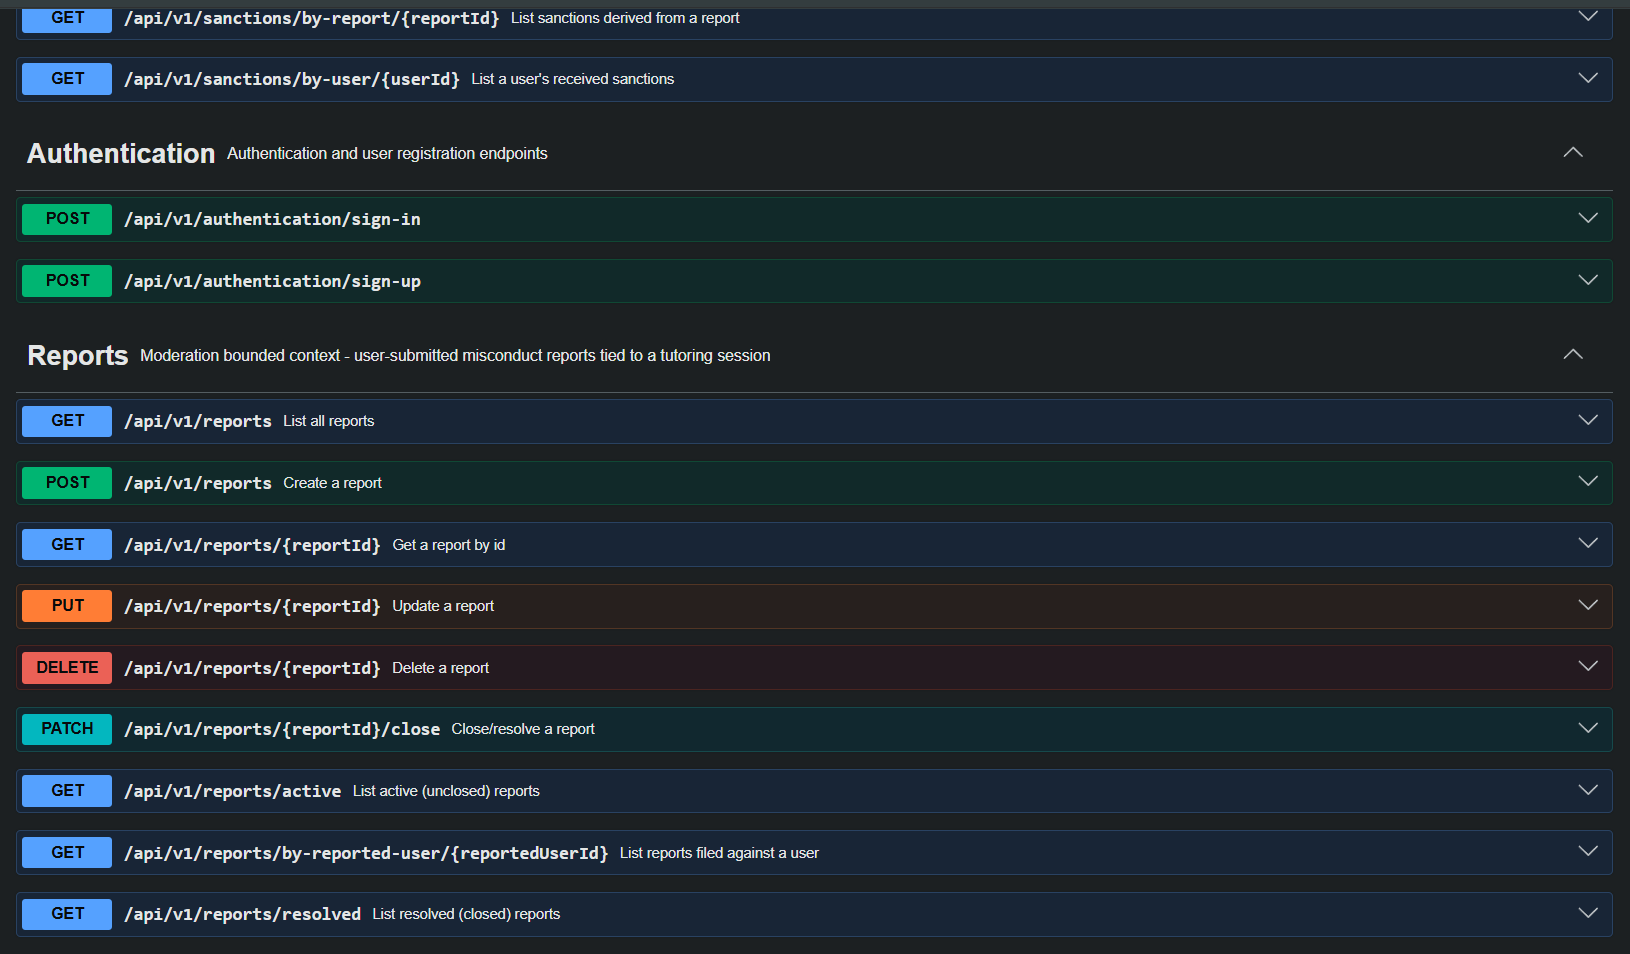
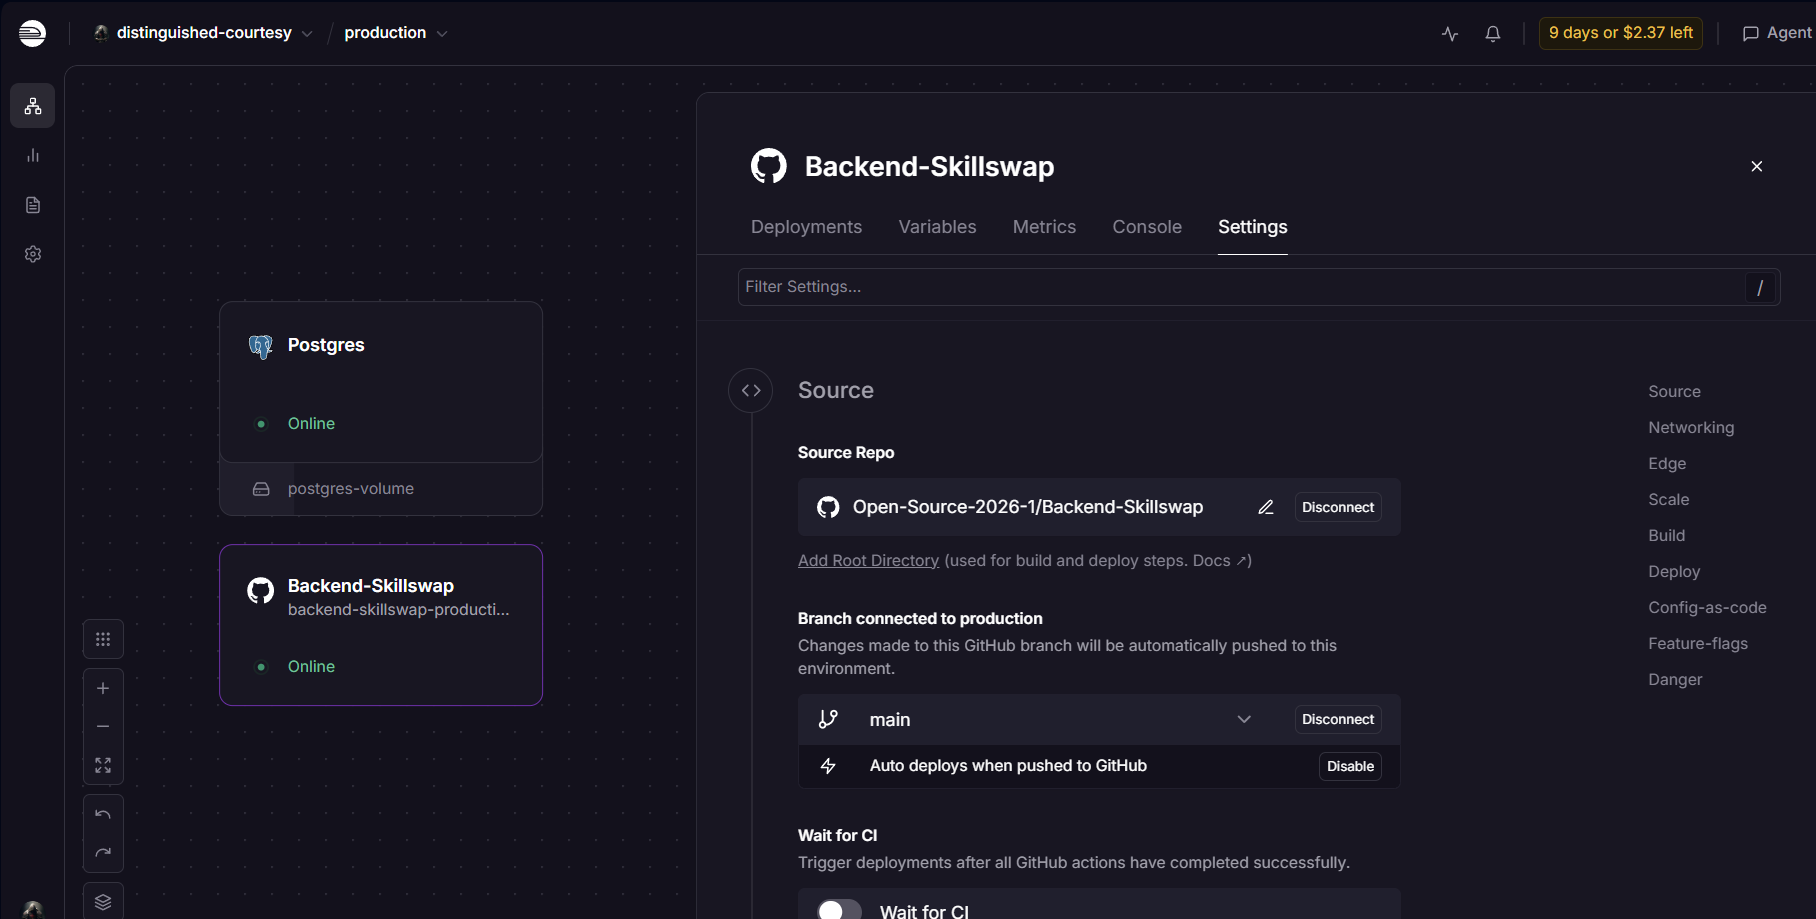
modificando lo del infotme

diff --git a/public/index.html b/public/index.html
@@ -245,17 +245,13 @@
               ✓ Experiencia colaborativa
             </span>
 
-          </div>
+          </div>s
 
         </div>
 
         <div class="hero-image-container">
 
-          <img
-            src="assets/images/landing/home_screen.png"
-            alt="Dashboard principal"
-            loading="lazy"
-          />
+         <iframe width="560" height="315" src="https://www.youtube.com/embed/aVOBvnO035E?si=tMARlBnuNi-BBuGy" title="YouTube video player" frameborder="0" allow="accelerometer; autoplay; clipboard-write; encrypted-media; gyroscope; picture-in-picture; web-share" referrerpolicy="strict-origin-when-cross-origin" allowfullscreen></iframe>
 
         </div>
 

diff --git a/1asi0729-11990-Skillswap-report-AV2.md b/1asi0729-11990-Skillswap-report-AV2.md
@@ -4506,7 +4506,13 @@ A continuación se presentan capturas representativas de la ejecución de los se
   </figcaption>
 </figure>
 
-**Enlace al video de navegación (Sprint 4):** [ver video](https://upcedupe-my.sharepoint.com/:v:/g/personal/u201924127_upc_edu_pe/PENDIENTE-REEMPLAZAR-CON-URL-REAL)
+
+
+**Enlace al video de navegación (Sprint 4):** [ver video en oneDrive](https://upcedupe-my.sharepoint.com/:v:/g/personal/u201924127_upc_edu_pe/IQBIlcadVjq4SrsxUHk6DVV9ARJfP9DmAJPK1avvBhXlxRA?e=b99RzQ&nav=eyJyZWZlcnJhbEluZm8iOnsicmVmZXJyYWxBcHAiOiJTdHJlYW1XZWJBcHAiLCJyZWZlcnJhbFZpZXciOiJTaGFyZURpYWxvZy1MaW5rIiwicmVmZXJyYWxBcHBQbGF0Zm9ybSI6IldlYiIsInJlZmVycmFsTW9kZSI6InZpZXcifX0%3D)
+
+>Nota: Se coloca el video de oneDrive de esa forma ya que cuando se le coloca de la forma normal hay un (:v:) que se presenta y lo toma como si fuera un emoji de una mano haciendo el símbolo de la paz. Una disculpa de ante mano.
+
+**URL-youtube:** [https://youtu.be/fIH2JKg4f3k](https://youtu.be/fIH2JKg4f3k)
 
 <figure style="text-align: center; margin-bottom: 40px;">
   <img src="public/assets/images-doc/sprint4-demostracion-video.png" alt="Video demostración Sprint 4" width="800">
@@ -4523,6 +4529,8 @@ En esta sección se incluye la relación completa de endpoints documentados con 
 **URL de documentación Swagger:** [https://backend-skillswap-production-746f.up.railway.app/swagger-ui/index.html](https://backend-skillswap-production-746f.up.railway.app/swagger-ui/index.html)
 
 **URL del repositorio backend:** [https://github.com/Open-Source-2026-1/backend-skillswap](https://github.com/Open-Source-2026-1/backend-skillswap)
+
+**URL del repositorio frontend:** [https://github.com/Open-Source-2026-1/Frontend-SkillSwap.git](https://github.com/Open-Source-2026-1/Frontend-SkillSwap.git)
 
 ---
 
@@ -4703,6 +4711,49 @@ En esta sección se incluye la relación completa de endpoints documentados con 
     Figura. Captura de Swagger UI mostrando los endpoints del nuevo bounded context Favorites, implementado durante el Sprint 4.
   </figcaption>
 </figure>
+
+---
+
+##### Bounded Context: Identity & Access Management (IAM)
+
+Este bounded context fue integrado en su totalidad durante el Sprint 4, reemplazando el mock de identidad utilizado en sprints anteriores (`CURRENT_LEARNER_ID`/`CURRENT_TUTOR_ID`) por el servicio real de autenticación y gestión de usuarios, correspondiente a las historias **US01** (registro validado con correo institucional), **US02** (login con acceso por rol) y **US04** (badge de verificación institucional).
+
+**Authentication**
+
+| Endpoint | Action | HTTP Verb | Call Syntax | Parameters | Response Example |
+| :--- | :--- | :---: | :--- | :--- | :--- |
+| /api/v1/authentication/sign-up | Register a new user | POST | `POST /api/v1/authentication/sign-up` | Body: `{"username":"jperez","password":"Secure123!","email":"jperez@upc.edu.pe","roles":["ROLE_LEARNER"]}` | `{"id":15,"username":"jperez","email":"jperez@upc.edu.pe","roles":["ROLE_LEARNER"],"verified":true}` |
+| /api/v1/authentication/sign-in | Authenticate a user and issue a JWT | POST | `POST /api/v1/authentication/sign-in` | Body: `{"username":"jperez","password":"Secure123!"}` | `{"id":15,"username":"jperez","token":"eyJhbGciOiJIUzI1NiJ9...","roles":["ROLE_LEARNER"]}` |
+
+> **Nota de negocio:** el registro solo se completa exitosamente si el correo enviado corresponde a un dominio institucional `.edu.pe`. El backend valida este formato durante el `sign-up` y asigna automáticamente el flag `verified` en base a dicha validación (US01, US04).
+
+<figure style="text-align: center; margin-bottom: 40px;">
+  <img src="public/assets/images-doc/sprint4-swagger-endpoints-Authentication.png" alt="Swagger Endpoints Authentication Sprint 4" width="800">
+  <figcaption style="margin-top: 10px; font-style: italic;">
+    Figura. Captura de Swagger UI mostrando los endpoints del bounded context Authentication, correspondientes al login y registro real vía IAM.
+  </figcaption>
+</figure>
+
+---
+
+**Users**
+
+| Endpoint | Action | HTTP Verb | Call Syntax | Parameters | Response Example |
+| :--- | :--- | :---: | :--- | :--- | :--- |
+| /api/v1/users | Get all users | GET | `GET /api/v1/users` | None | `[{"id":15,"username":"jperez","email":"jperez@upc.edu.pe","roles":["ROLE_LEARNER"],"verified":true}]` |
+| /api/v1/users/{userId} | Get user by ID | GET | `GET /api/v1/users/15` | userId (path) | `{"id":15,"username":"jperez","email":"jperez@upc.edu.pe","roles":["ROLE_LEARNER"],"verified":true}` |
+| /api/v1/users/{userId}/roles | Update user roles | PATCH | `PATCH /api/v1/users/15/roles` | userId (path), Body: `{"roles":["ROLE_LEARNER","ROLE_TUTOR"]}` | `{"id":15,"username":"jperez","roles":["ROLE_LEARNER","ROLE_TUTOR"]}` |
+| /api/v1/users/{userId}/verify | Verify institutional user | PATCH | `PATCH /api/v1/users/15/verify` | userId (path) | `{"id":15,"username":"jperez","verified":true}` |
+
+> **Nota de negocio:** el endpoint `updateUserRoles` es el que habilita el acceso diferenciado por rol (Learner, Tutor, Coordinator) que consumen los guards del Frontend Angular (US02). El endpoint `verifyUser` respalda la visualización del badge de verificación institucional en el perfil público del tutor (US04).
+
+<figure style="text-align: center; margin-bottom: 40px;">
+  <img src="public/assets/images-doc/sprint4-swagger-endpoints-Users.png" alt="Swagger Endpoints Users Sprint 4" width="800">
+  <figcaption style="margin-top: 10px; font-style: italic;">
+    Figura. Captura de Swagger UI mostrando los endpoints del bounded context Users, correspondientes a la gestión de roles y verificación institucional.
+  </figcaption>
+</figure>
+
 
 ---
 
@@ -5861,7 +5912,7 @@ https://lucid.app/lucidspark/5af3ee09-0b57-4a3a-9e9d-a0973c7463ae/edit?viewport_
 | Sección | Características del video | Sobre el contenido | Integración y entrega |
 | :--- | :--- | :--- | :--- |
 | **Needfinding Interviews** | upc-pre-202610-1asi0730---needfinding-sprint-1 | Consolida todas las entrevistas realizadas, incluyendo en cada entrevista títulos con información del entrevistado, el segmento objetivo y la fecha de la entrevista. | https://upcedupe-my.sharepoint.com/:v:/g/personal/u201924127_upc_edu_pe/IQBRnpVnIxplRo7iLHOvEiZqAV2Dj9KLYVmcGKSInUeAjkQ?e=ZL65jW&nav=eyJyZWZlcnJhbEluZm8iOnsicmVmZXJyYWxBcHAiOiJTdHJlYW1XZWJBcHAiLCJyZWZlcnJhbFZpZXciOiJTaGFyZURpYWxvZy1MaW5rIiwicmVmZXJyYWxBcHBQbGF0Zm9ybSI6IldlYiIsInJlZmVycmFsTW9kZSI6InZpZXcifX0%3D  |
-| **Prototypes Navigation / Product Navigation** | Cantidad de videos: 1<br><br>Nomenclatura: upc-pre-202610-1asi0730---navigation-sprint-<br><br>Formato: .mp4<br><br>Duración: En función a cantidad de user flows de aplicaciones (considerar edición de 3 a 5 minutos por aplicación). | Consolida demostración del flujo de navegación del Landing Page y las aplicaciones, priorizando los user flows relacionados con el core business. | Subir el video en Microsoft Stream con enlace privado. Incluir en el informe screenshot del video con enlace al mismo. Incluir redacción de introducción a la sección, resumiendo los flujos de navegación que se incluyen en el video. Seguir especificaciones del enunciado. |
+| **Prototypes Navigation / Product Navigation** | Cantidad de videos: 1<br><br>Nomenclatura: upc-pre-202610-1asi0730---navigation-sprint-<br><br>Formato: .mp4<br><br>Duración: En función a cantidad de user flows de aplicaciones (considerar edición de 3 a 5 minutos por aplicación). | Consolida demostración del flujo de navegación del Landing Page y las aplicaciones, priorizando los user flows relacionados con el core business. | Subir el video en Microsoft Stream con enlace privado. Incluir en el informe screenshot del video con enlace al mismo. Incluir redacción de introducción a la sección, resumiendo los flujos de navegación que se incluyen en el video. Seguir especificaciones del enunciado. **URL Sprint 4:** [ https://youtu.be/fIH2JKg4f3k]( https://youtu.be/fIH2JKg4f3k) |
 | **Validation Interviews** | Cantidad de videos: 1<br><br>Nomenclatura: upc-pre-202610-1asi0730---validation-sprint-<br><br>Formato: .mp4<br><br>Duración: En función a cantidad de entrevistas (considerar edición de 3 a 5 minutos por entrevista). | Consolida sesiones y entrevistas de validación en las que usuarios de los segmentos objetivo interactúen con el landing page y con los prototipos de experiencias web y mobile, manifestando sus observaciones. Para cada entrevista se debe incluir títulos con información del entrevistado, el segmento objetivo y la fecha de la entrevista. | Subir el video en Microsoft Stream con enlace privado. Incluir en el informe screenshot del video con enlace al mismo. Incluir redacción de introducción a la sección y redacción de registro de cada entrevista, junto con la evaluación de heurísticas de usabilidad, arquitectura de información y diseño inclusivo para la sesión de evaluación. Seguir especificaciones del enunciado y formatos indicados. |
 | **About the Product** | Cantidad de videos: 1<br><br>Nomenclatura: upc-pre-202610-1asi0730---aboutthe-product-sprint-<br><br>Formato: .mp4<br><br>Duración: De 1 a 3 minutos. | Orientación promocional, resumiendo el modelo de negocio, las características y beneficios del producto, incluyendo algunas escenas de interacción con el producto y al menos una opinión por cada segmento objetivo. | https://upcedupe-my.sharepoint.com/:v:/g/personal/u201924127_upc_edu_pe/IQA5cpo2QD92T4a62lWc4xatAba9eoicuBjnPIIUCf52aFw?e=cNaFdP&nav=eyJyZWZlcnJhbEluZm8iOnsicmVmZXJyYWxBcHAiOiJTdHJlYW1XZWJBcHAiLCJyZWZlcnJhbFZpZXciOiJTaGFyZURpYWxvZy1MaW5rIiwicmVmZXJyYWxBcHBQbGF0Zm9ybSI6IldlYiIsInJlZmVycmFsTW9kZSI6InZpZXcifX0%3D |
 | **About the Team** | Cantidad de videos: 1<br><br>Nomenclatura: upc-pre-202610-1asi0730---aboutthe-team-sprint-<br><br>Formato: .mp4<br><br>Duración: En función al contenido (considerar 5 minutos para la sección de retrospectiva del grupo y 1 minuto por cada testimonio de miembro del equipo). | Video que resume el proceso de trabajo realizado, incluyendo escenas de sesiones de trabajo real del equipo, complementando con narración (voz en off) del proceso. Incluye además el testimonio ante cámara de cada participante describiendo actividades realizadas, logro de outcomes y desarrollo de competencias alcanzados. | [https://upcedupe-my.sharepoint.com/:v:/g/personal/u201924127_upc_edu_pe/IQDpQN3MR3gRTbAqpmuK7D2wASQKAERIMPretZS1V3fQTHU?e=QMWs4g&nav=eyJyZWZlcnJhbEluZm8iOnsicmVmZXJyYWxBcHAiOiJTdHJlYW1XZWJBcHAiLCJyZWZlcnJhbFZpZXciOiJTaGFyZURpYWxvZy1MaW5rIiwicmVmZXJyYWxBcHBQbGF0Zm9ybSI6IldlYiIsInJlZmVycmFsTW9kZSI6InZpZXcifX0%3D](https://upcedupe-my.sharepoint.com/:v:/g/personal/u201924127_upc_edu_pe/IQDpQN3MR3gRTbAqpmuK7D2wASQKAERIMPretZS1V3fQTHU?e=QMWs4g&nav=eyJyZWZlcnJhbEluZm8iOnsicmVmZXJyYWxBcHAiOiJTdHJlYW1XZWJBcHAiLCJyZWZlcnJhbFZpZXciOiJTaGFyZURpYWxvZy1MaW5rIiwicmVmZXJyYWxBcHBQbGF0Zm9ybSI6IldlYiIsInJlZmVycmFsTW9kZSI6InZpZXcifX0%3D) |
